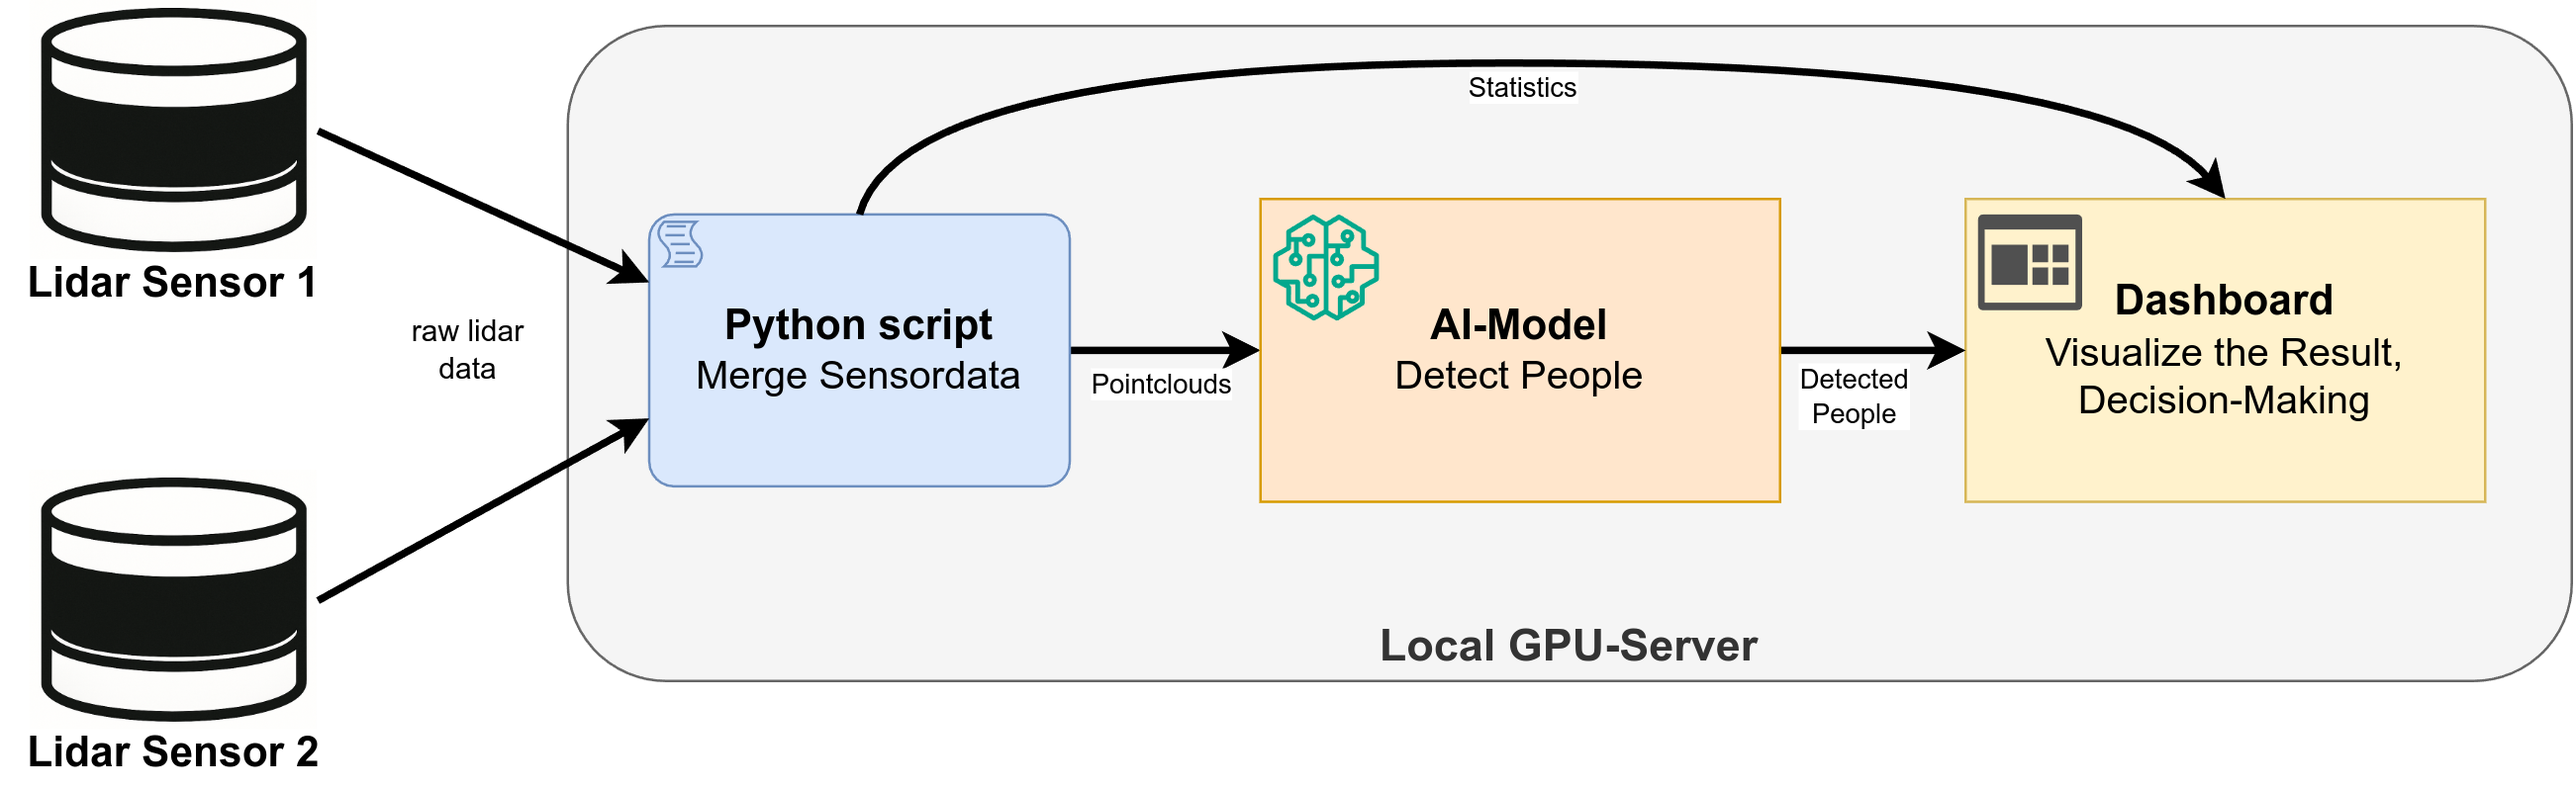
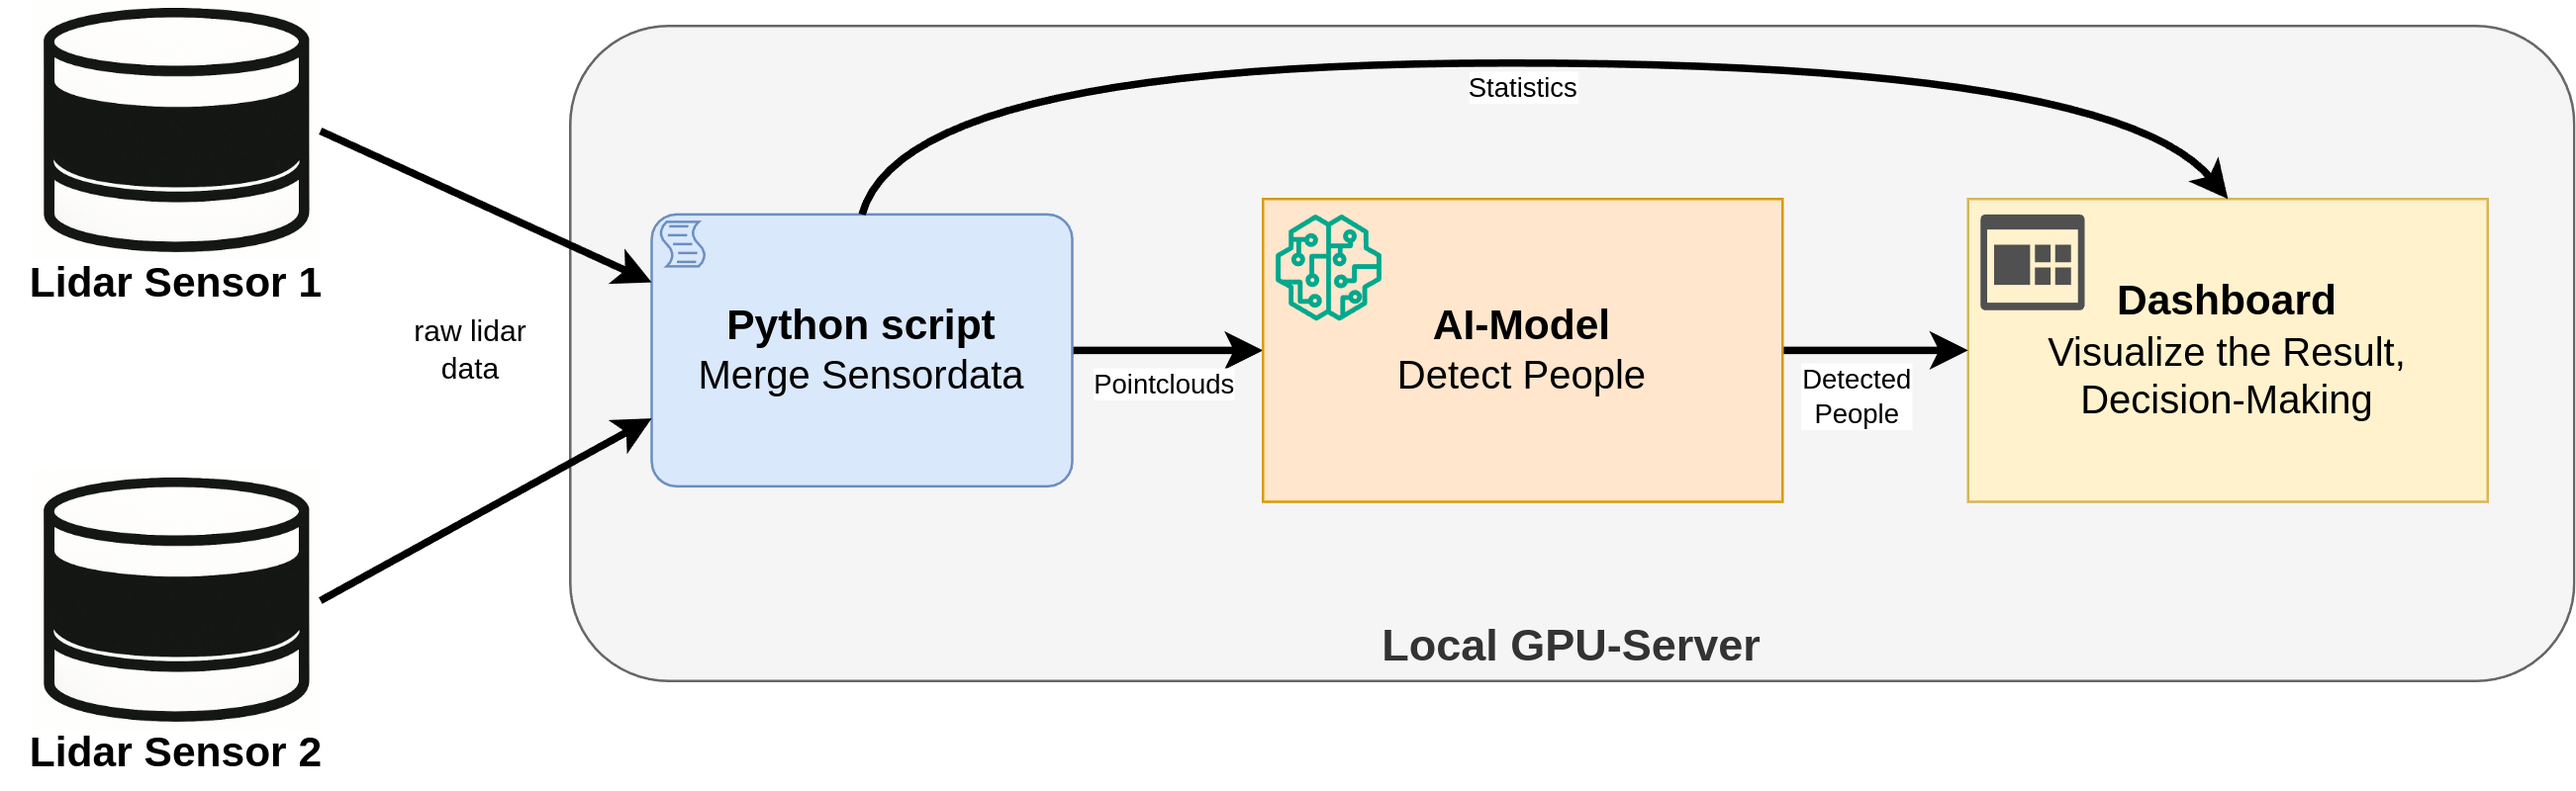
Optimize Readme: Diagrams, fixes, details; Disable beeping on enter

diff --git a/lidar_system/people_detection.py b/lidar_system/people_detection.py
@@ -429,8 +429,9 @@ def track_room_occupancy(clusters, polygon_xy_inside_area, history_buffer=None, 
         # Entry: outside → inside
         if not was_inside_outer and is_inside_inner and cid not in track_room_occupancy.entered_ids:
             log_info(f"[track_room_occupancy] Cluster {cid} ENTERED")
-            sys.stdout.write('\a')
-            sys.stdout.flush()
+            # trigger beep:
+            #   sys.stdout.write('\a')
+            #   sys.stdout.flush()
             if status_cache:
                 status_cache.add_log_entry("DETECTION_LAST_EVENTS", f"Cluster {cid} ENTERED", trigger_file_update=False)
             track_room_occupancy.entered_ids.add(cid)

diff --git a/README.md b/README.md
@@ -11,16 +11,20 @@ The Idea was to explore two detection strategies:
 
 ---
 
-## System Overview
+# System Overview
 
 The core of this repository is the `lidar_system/` Python project. It integrates all key components:
 
-- Real-time processing of LiDAR data from 1–2 sensors
-- Motion-based detection using clustering and filtering
-- Optional AI-based bounding box detection using PointNet
-- Live visualization via Open3D (multiple synchronized windows)
+- Real-time processing of LiDAR data from 2 sensors (UDP Streams)
 - Merging of sensor views using transformation matrices
-- TCP streaming for dashboards or external consumers
+- Algorithms for detecting people
+  - Motion-based: detect moving points, use clustering and filtering, track where people are even when no longer moving
+  - Change-based: compare new points to reference dataset, clustering and analysing the shape
+- AI-based people detection
+  - Integrated AI-based bounding box detection using PointNet
+- Live visualization via Open3D (multiple synchronized windows, easily configurable what stage is shown in which window)
+- TCP streaming the results for dashboards or external consumers
+- Creation of a `status.json` file (output and debug variables for a simplified dashboard)
 - Utilities for cropping, picking points, and exporting results
 
 ### Architecture Overview
@@ -31,7 +35,7 @@ The core of this repository is the `lidar_system/` Python project. It integrates
 
 ## Screenshots and Visual Results
 
-| Motion Detection (Custom) | Dual Sensor Merge |
+| Motion Detection (First stage) | Dual Sensor Merge (process to get the transformation matrix) |
 |---------------------------|-------------------|
 | ![Motion](doc/screenshots/py_motion-detection.jpg) | ![Merge](doc/screenshots/py_sensor-merge-utility_2.jpg) |
 
@@ -41,7 +45,7 @@ The core of this repository is the `lidar_system/` Python project. It integrates
 
 ---
 
-## Repository Structure
+# Repository Structure
 
 ```
 lidar_system/              ← Main Python system (core logic, live detection)
@@ -55,36 +59,36 @@ doc/                       ← Documentation and screenshots
 
 ---
 
-## Installation
+# Installation
 
-### 1. Clone the Repository
+## 1. Clone the Repository
 
 ```bash
-git clone https://github.com/yourname/5Safe-LidarDetection.git
-cd 5Safe-LidarDetection
-git lfs pull
+git clone https://github.com/Jonny999999/HAW-LA_5Safe-LidarDetection.git
+cd HAW-LA_5Safe-LidarDetection
 ```
 
 > **Note:** Git LFS is required to download recorded `.pcap` test files in the `data/` folder.
 
-#### Install Git LFS if Needed:
+### Install Git LFS if Needed:
 * **Ubuntu/Debian:**
-  ```bash
+```bash
   sudo apt update
   sudo apt install git-lfs
   cd HAW-LA_5Safe-LidarDetection
   git lfs install
-  ```
+  git lfs pull
+```
 * **Windows (PowerShell):**
-Download and install git-lfs from official the website and run:
-  ```powershell
+Download and install git-lfs from official the website and run:  
+```powershell
   cd HAW-LA_5Safe-LidarDetection
   git pull
-  ```
+```
 
 ---
 
-### 2. Python Environment Setup
+## 2. Python Environment Setup
 > **Note:** This project was developed and tested with **Python 3.10**. Other versions may not work correctly.
 
 You can choose one of two options:
@@ -124,19 +128,20 @@ pip install -r lidar_system/requirements_full.txt
 
 ---
 
-## Usage
+# Usage
 
-### Basic Launch
+## Basic Launch
 
-Run from terminal:
+**Option 1: user start script**
 
 ```bash
 ./scripts/start_python-script+stats-terminal.sh
 ```
+Note: you may need to adjust the script to use the correct project folder, python path, env, etc...
 
-This starts the main detection system and a secondary terminal showing live output.
+This script kills old instances, starts the main detection system and delayed a secondary terminal showing live output. Also the system is automatically restarted in case there is a crash.
 
-Or manually:
+**Option 2: start the python script directly:**
 
 ```bash
 cd lidar_system
@@ -145,10 +150,16 @@ python main.py
 
 ---
 
-## Internal Python Architecture
+# Internal Python Architecture
 
+### Threads / Processes
 The internal structure of the python project is based on multiple parallel threads or processes communicating via queues:
 ![Python Threads](doc/diagrams/python_threads.png)
+### Main loop
+![main](doc/diagrams/python_main.png)
+### Tracking algorithm
+![tracking](doc/diagrams/python_tracking.png)
+
 
 ---
 
@@ -157,8 +168,8 @@ The internal structure of the python project is based on multiple parallel threa
 ### A) Using recorded PCAP Test Data (Offline - No Sensors Required)
 
 1. Open `lidar_system/config.py`
-2. Set `USE_LIVE_UDP = False`
-3. Comment in a `.pcap` file path from `data/testdata/`
+2. Set `DATA_RECEIVE_MODE = "PCAP"`
+3. Comment in a `.pcap` file path from `data/testdata/` (`PCAP_FILE_1` and `PCAP_FILE_2` in config.py)
 4. Run the system
 
 ### B) Using Real Dual-Sensor Setup
@@ -172,6 +183,7 @@ The internal structure of the python project is based on multiple parallel threa
    - Change IPs to your desired subnet
    - Set destination IP to the server’s IP
    - Assign unique UDP ports per sensor
+   - set RPM to same value (we used the minimum 300 RPM for 5 fps)
 
 4. Run `tcpdump` to confirm receipt:
 
@@ -180,13 +192,15 @@ sudo tcpdump -i enp71s0f0np0 udp port 5001
 ```
 
 5. Update `config.py`:
-   - Set `USE_LIVE_UDP = True`
-   - Adjust UDP port, interface, and sensor modes
-
+   - Set `DATA_RECEIVE_MODE = "UDP"`
+   - Adjust UDP ports and interface e.g. `UDP_LISTEN_IP_SENSOR1 = "0.0.0.0"` and `UDP_PORT_SENSOR1 = 5001`
 ---
 
-### Initial Sensor Merge Setup (Transformation matrix)
 
+
+
+## Initial Sensor Merge Setup (Transformation matrix)
+When the hardware setup changes the currently configured matrix, polygons and ai-model is no longer valid. This section describes how to use the python script to create a new transformation matrix to merge the sensor pointclouds:
 1. Mount sensors in the room (slightly angled down)
 2. Set window modes to `sensor1` and `sensor2` in config.py
 3. Use terminal commands `pick1` and later same with `pick2` to open point picker windows for the slected sensor
@@ -211,17 +225,25 @@ points_pc2 = np.array([
     [1.149047494, -5.592765808, 0.164931178],   # Greenscreen door
 ])
 ```
-6. Calculate the matrix, Run:
+6. Calculate the matrix, Run the edited script:
 ```bash
-scripts/calculate_transformation_matrix.py
+python scripts/calculate_transformation_matrix.py
 ```
-7. Paste the resulting matrix into `config.py` under `TRANSFORMATION_MATRIX`.
+7. Paste the resulting matrix into `lidar_system/config.py` under `TRANSFORMATION_MATRIX_SENSOR_2` e.g.:
+```python
+TRANSFORMATION_MATRIX_SENSOR_2 = np.array([
+             [ 0.66810762, 0.7309481, -0.13909377, 6.27345587],
+             [-0.74305003, 0.66519418,-0.07343942,-6.48224065],
+             [ 0.03884396, 0.15241907, 0.98755232, 1.1114492 ],
+             [ 0,          0,          0,          1        ],
+])
+```
 
-8. Verify the merge: Set one window to `merged_dual` mode to verify alignment.
+8. Verify the merge: Set one window to `merged_dual` (config.py: `VISUALIZER_WINDOW_1_MODE = "merged_dual"`) and run the script to verify the different color points align
 
 ---
 
-### Point Cloud Cropping (2D Polygon)
+## Point Cloud Cropping (2D Polygon)
 To remove walls/floor, define a polygon that bounds the area of interest in `config.py` e.g.:
 ```python
 CROP_POINTCLOUD_POLYGON = [
@@ -234,13 +256,11 @@ CROP_POINTCLOUD_POLYGON = [
 
 ---
 
-## Helper Scripts
+# Helper Scripts
 
 - `scripts/calculate_transformation_matrix.py`: Generate merge matrix from point pairs
 - `scripts/start_python-script+stats-terminal.sh`: Auto-restarts GUI and launches status window
 - `scripts/watch_status_json_file.sh`: Shows detection/debug output in terminal
-- `dashboard/`: TCP receiver for status + cluster data
-- `ai-detection/`: Standalone model experiments
-- `legacy_projects/`: One-off tests and early motion detection prototypes
+- `dashboard/`: TCP receiver for status + cluster data (not working)
 
 ---
